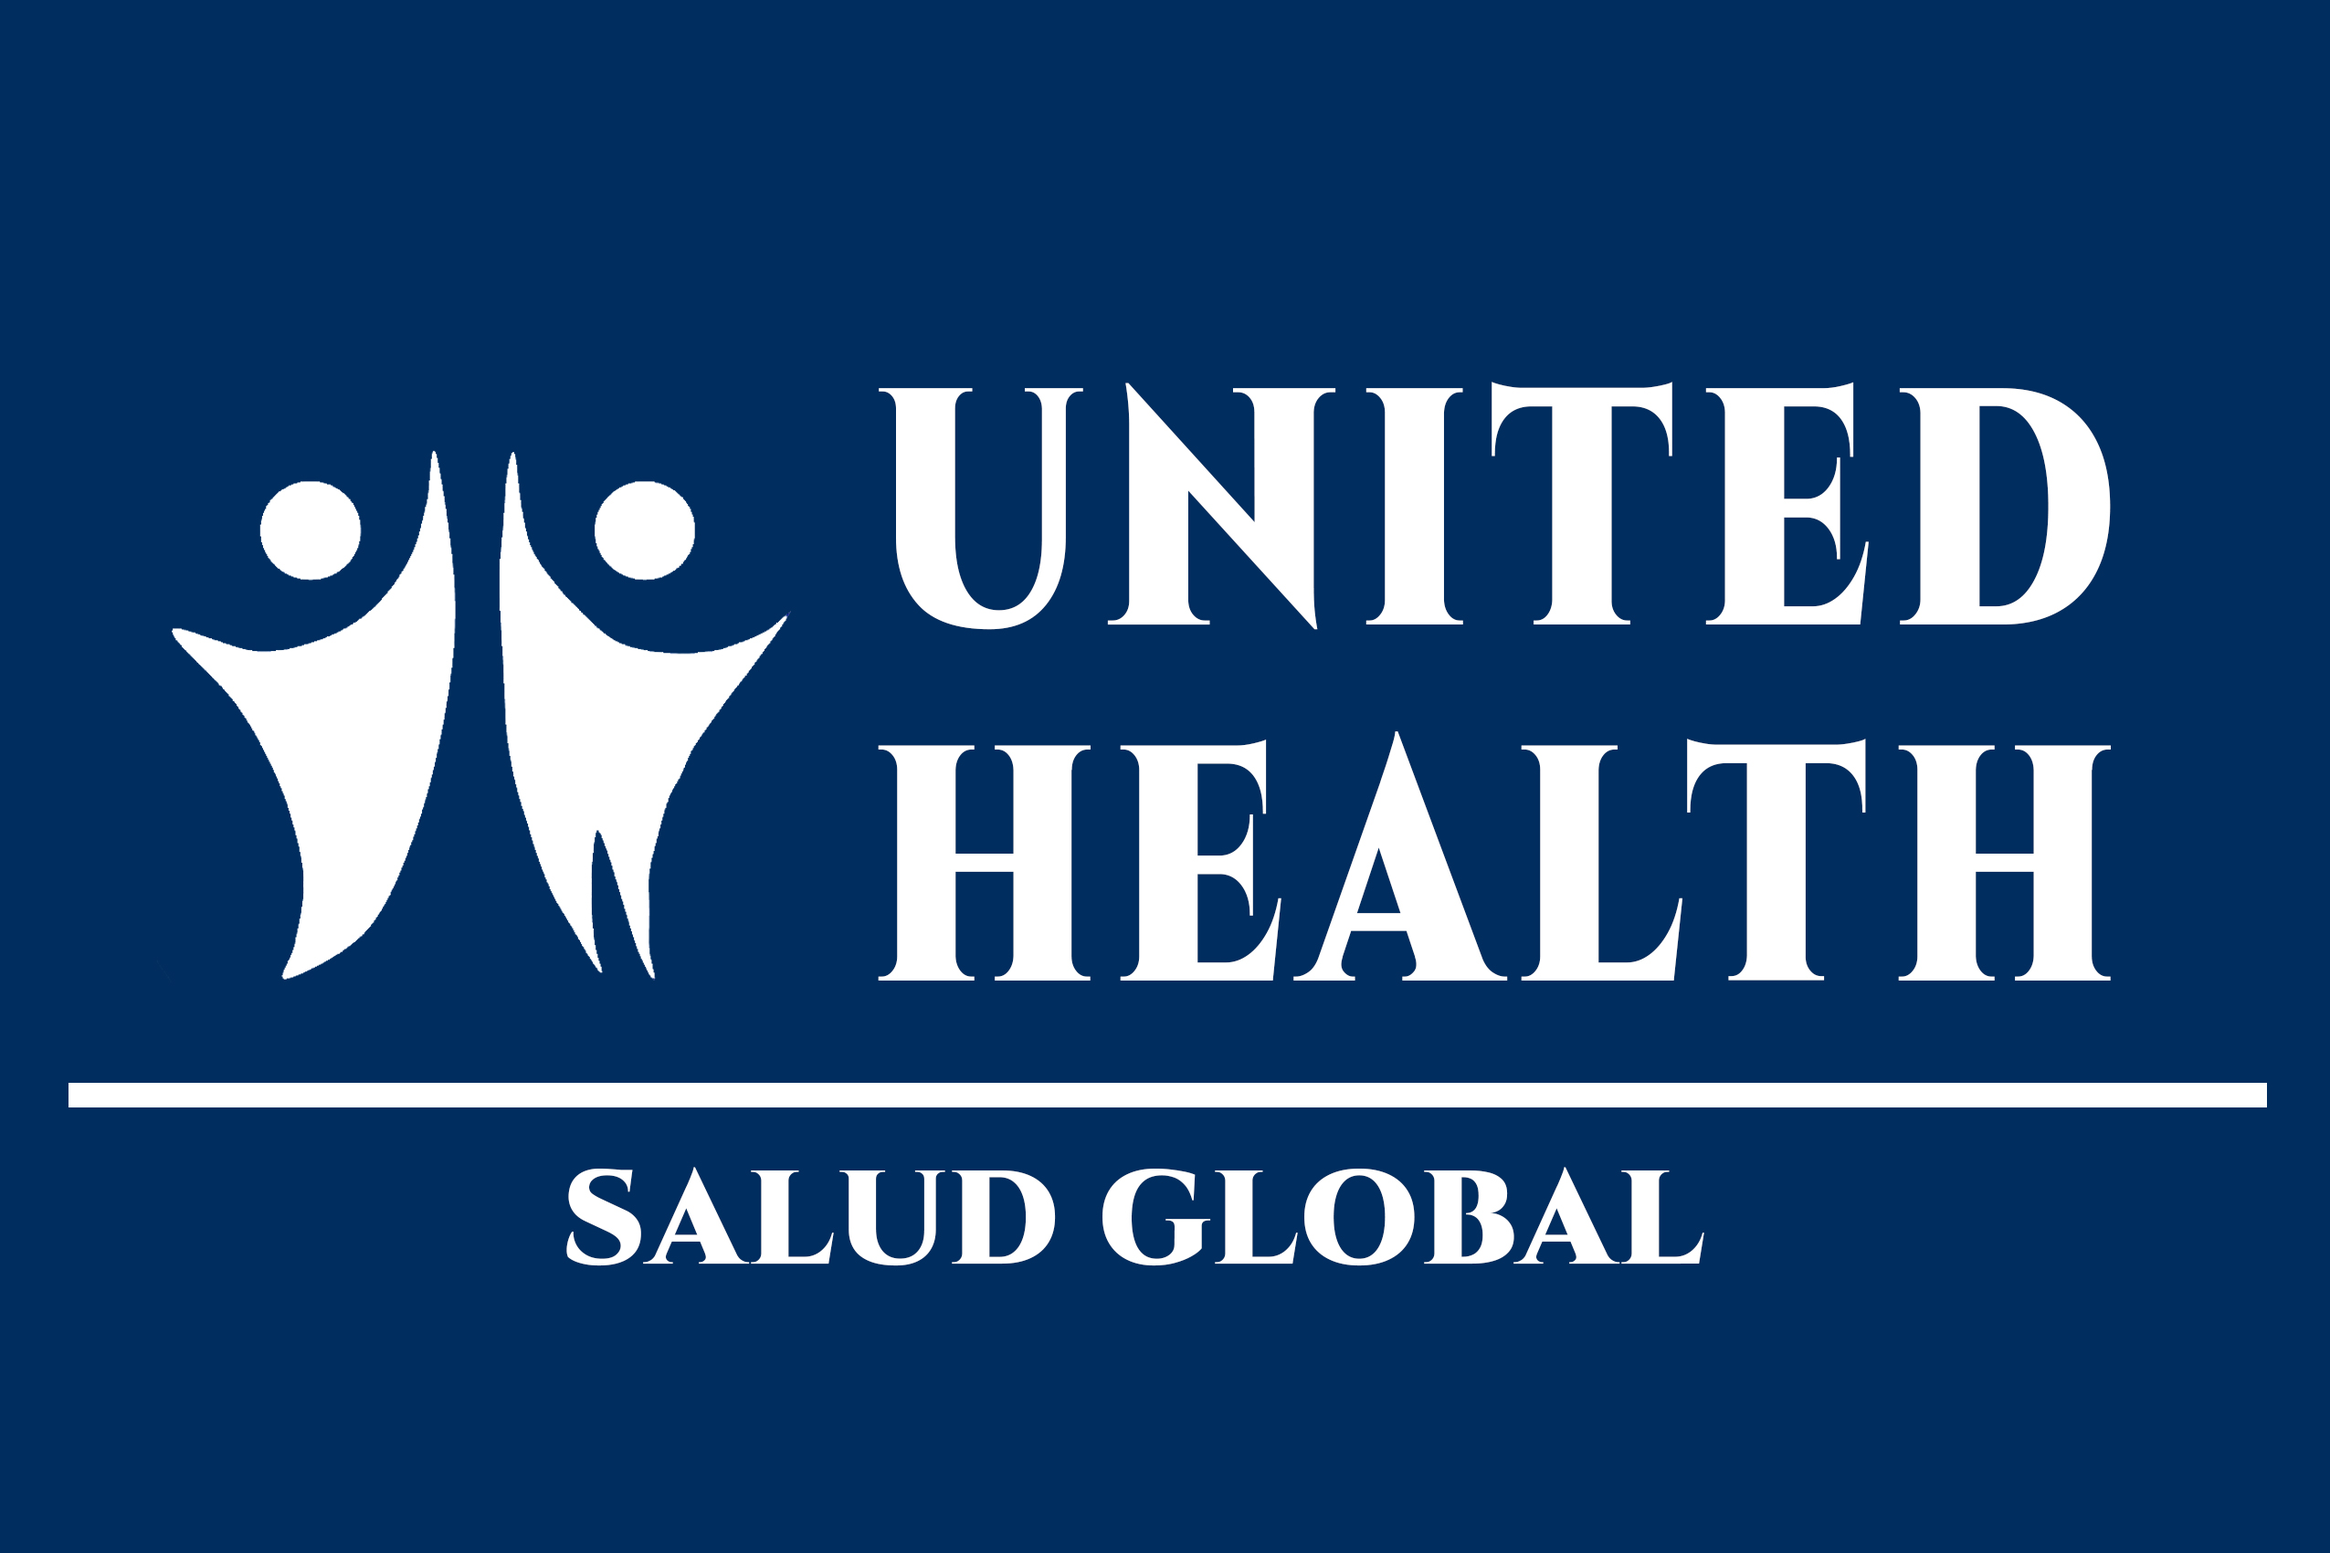
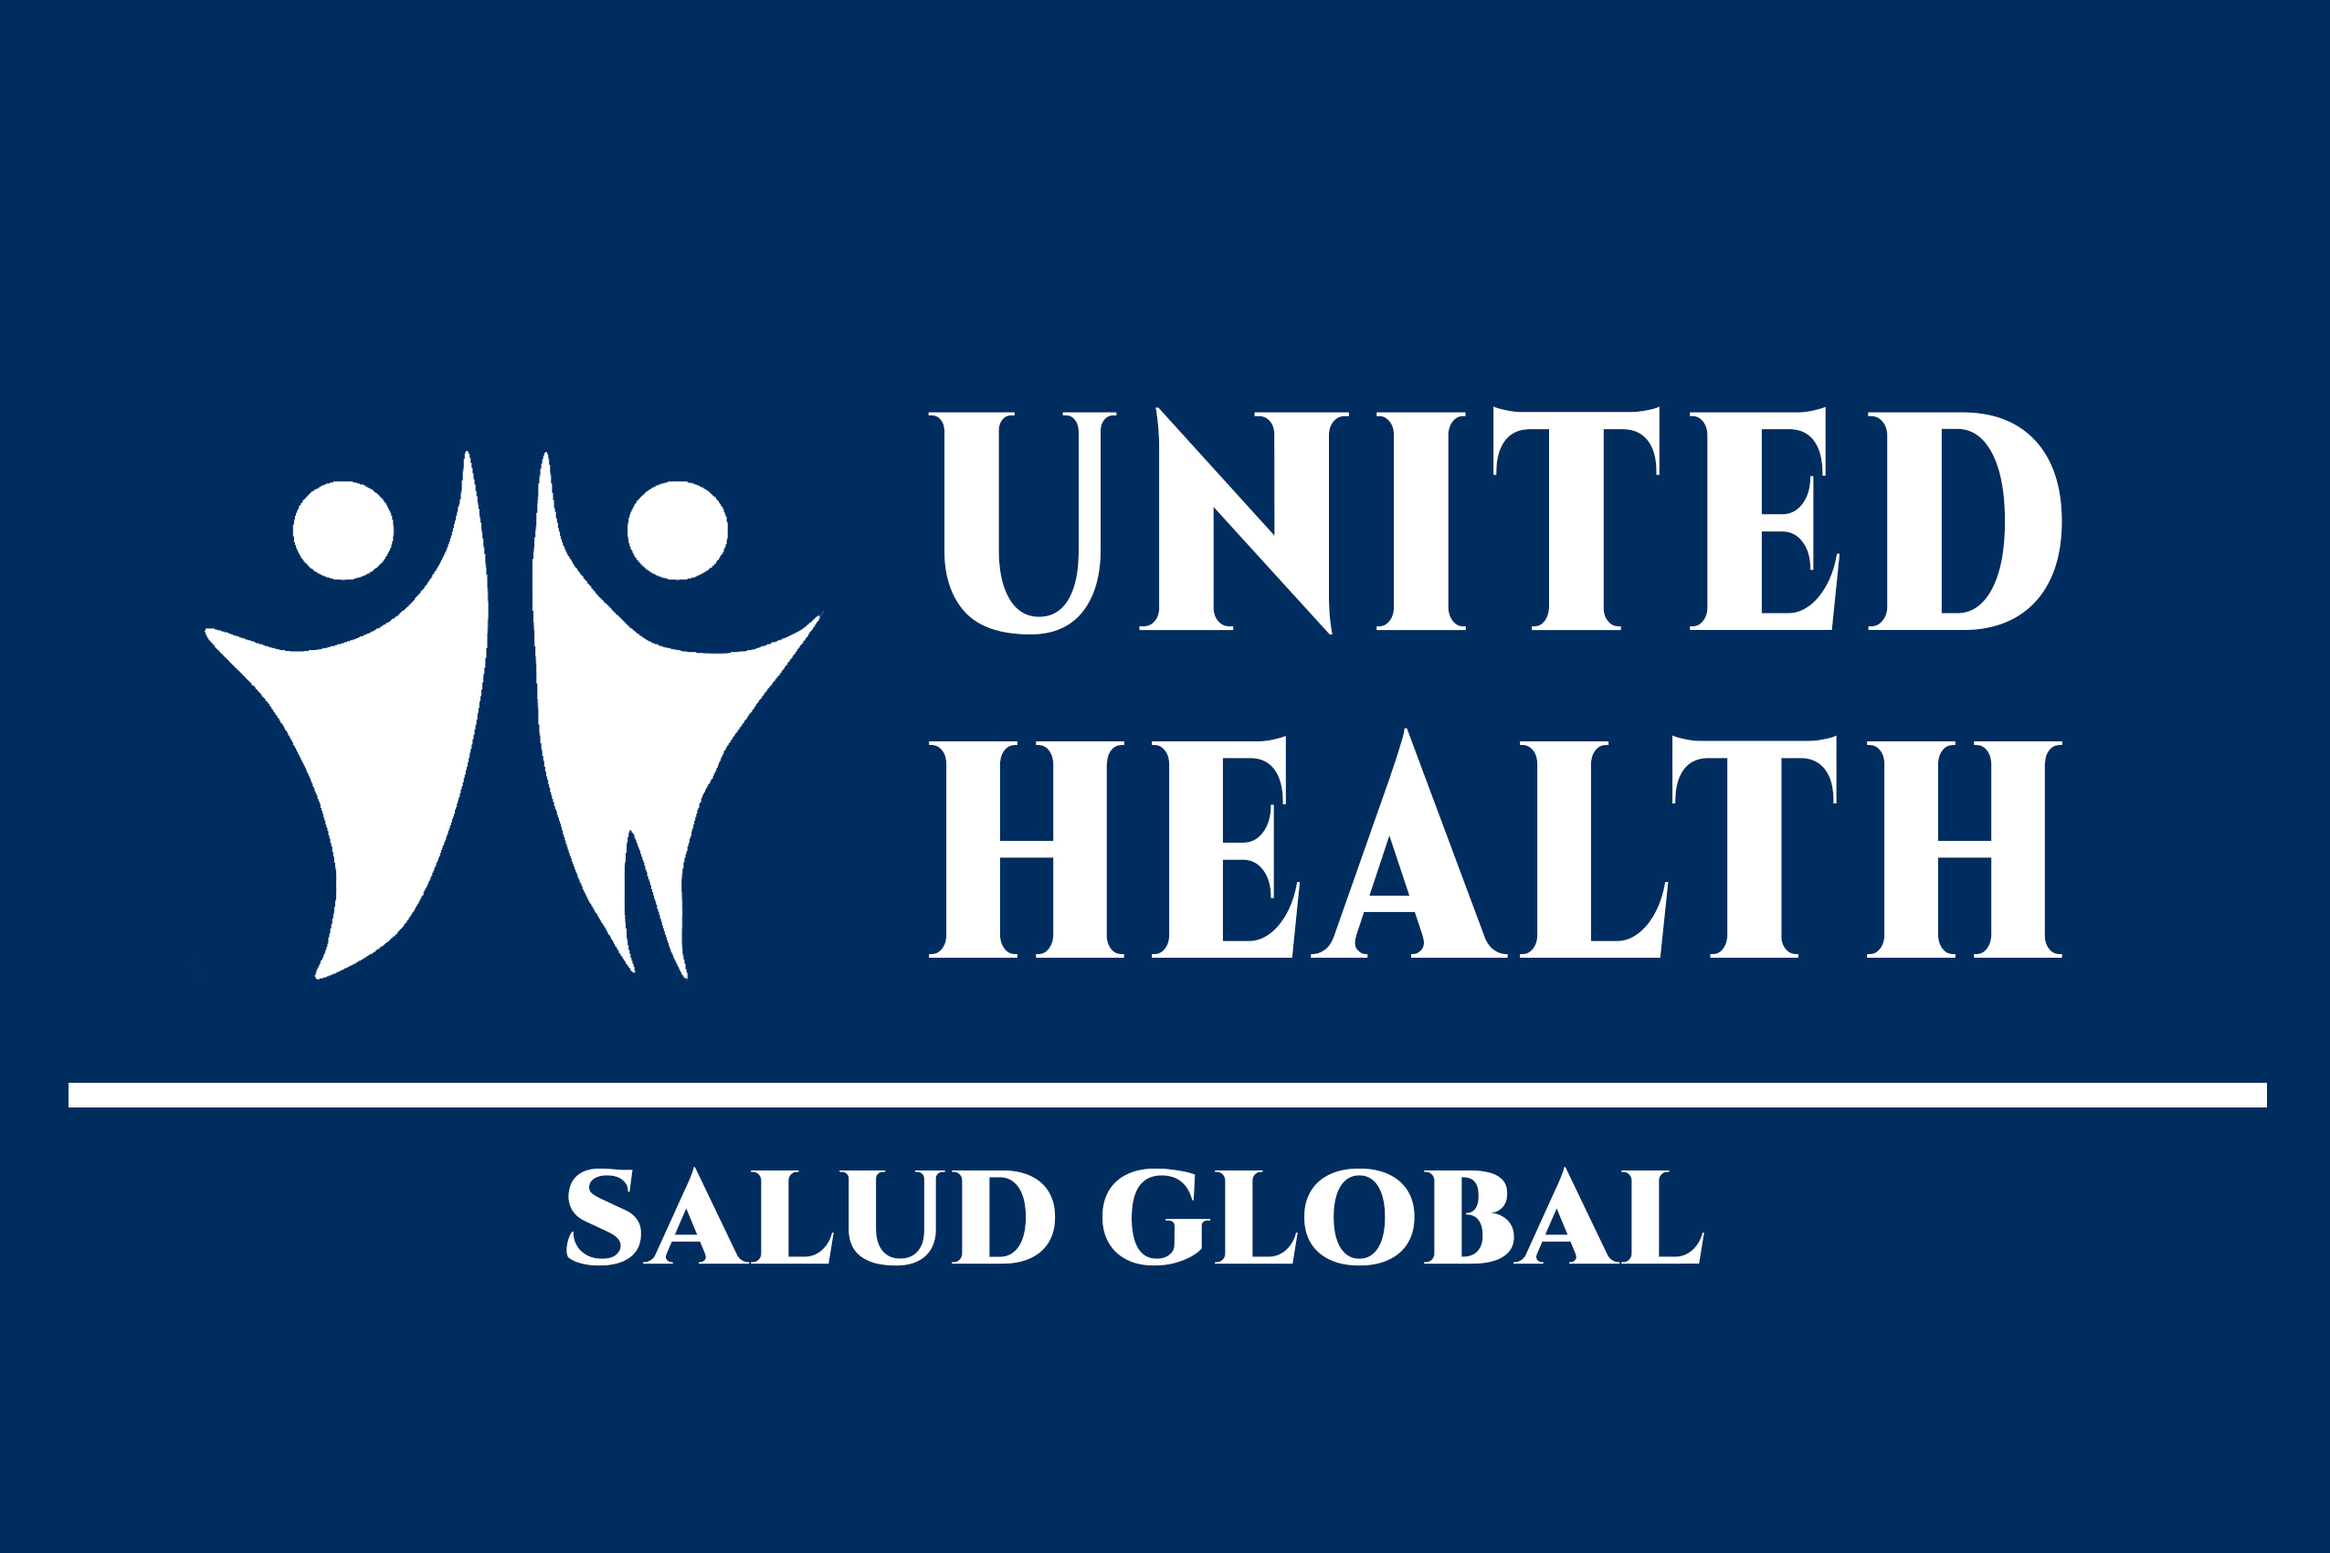
update

diff --git a/index.html b/index.html
@@ -15,7 +15,7 @@
     <nav>
       <a href="index.html" class="nav-link">Home</a>
       <a href="#"class= "nav-link">Servicios</a>
-      <a href="index.html"><img class="logo" src="images/uhbl.jpg" alt="uh_logo" ></a>
+      <a href="index.html"><img class="logo" src="images/uhbl2.jpg" alt="uh_logo" ></a>
       <a href="#"class= "nav-link">Ventas</a>
       <a href="#" class="nav-link">Audiencia</a>
 

diff --git a/styles/home.css b/styles/home.css
@@ -29,6 +29,7 @@ footer{
     background:gainsboro;
     color: black;
     transform: scale(1.2);
+    transition: 0.9s;
 }
 nav{
     padding: 0px;
@@ -77,6 +78,7 @@ nav{
    position: absolute;
 }
 .contact:hover{
+    transition: 0.9s;
     transform: scale(1.2);
 
 }
